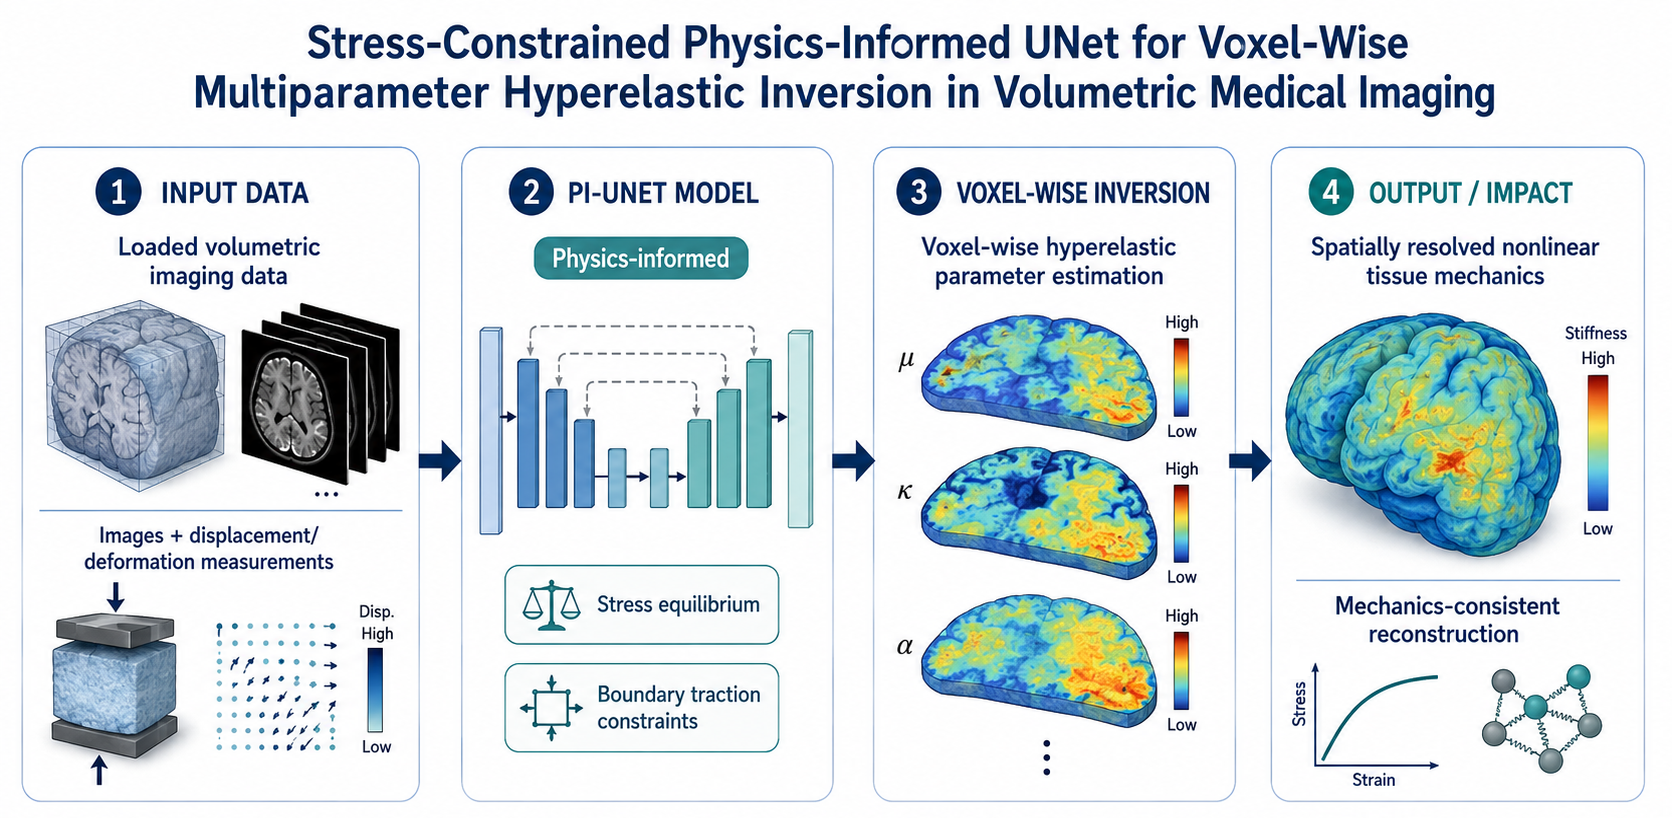
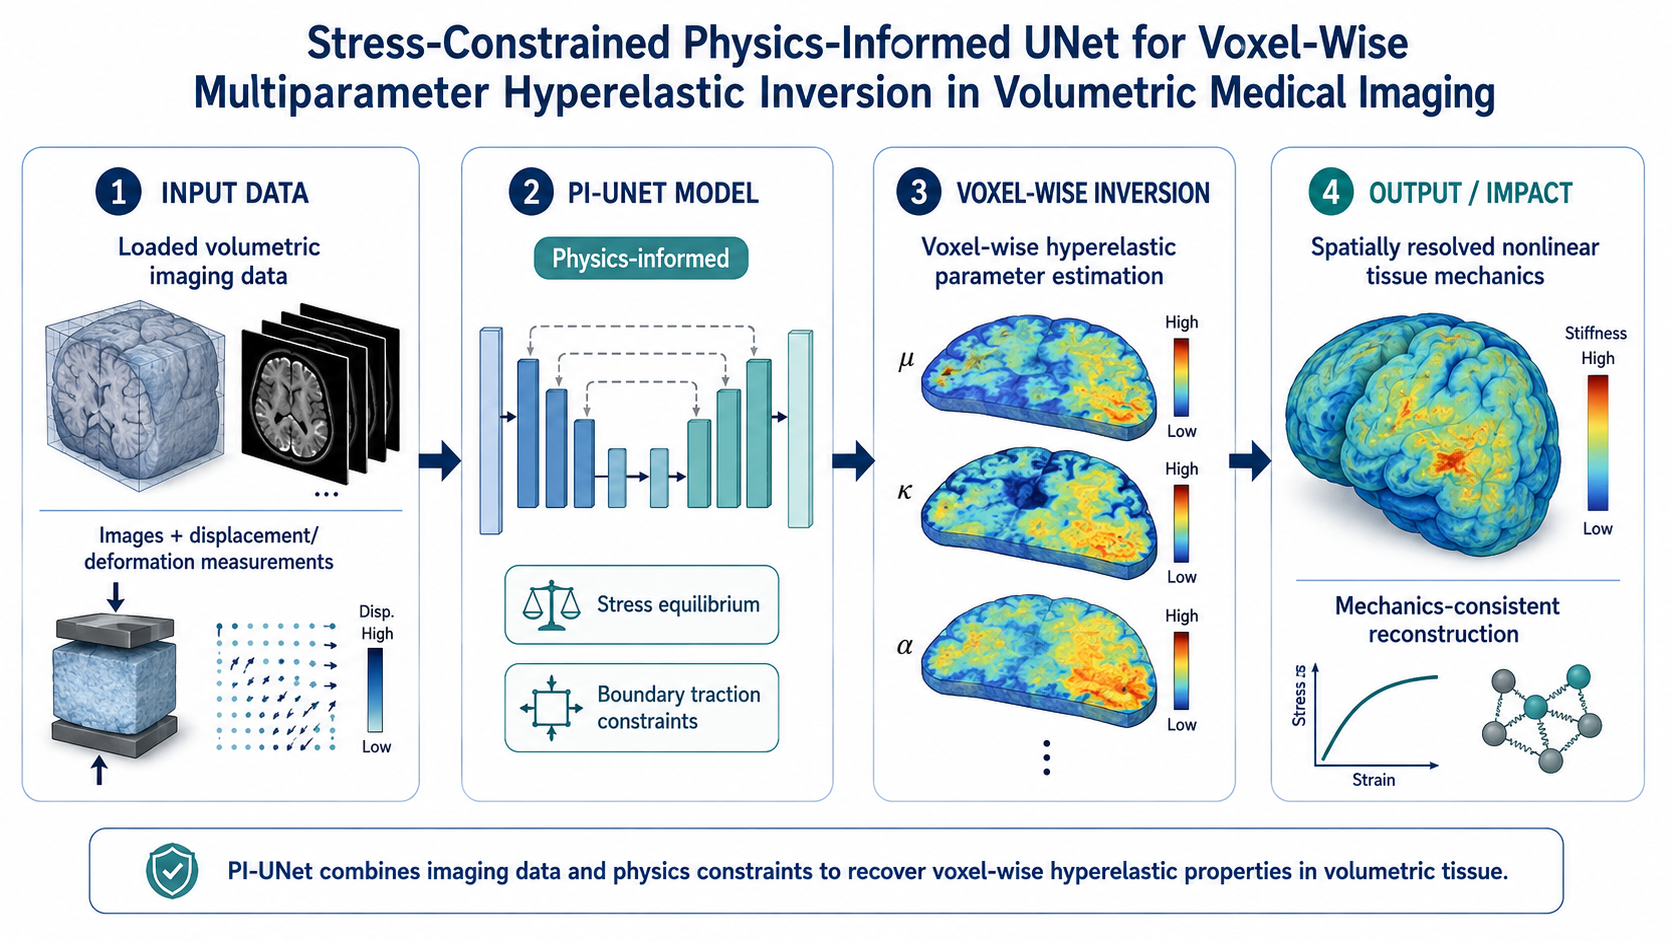
Add files via upload

diff --git a/index.html b/index.html
@@ -1,129 +1,24 @@
 ---
 layout: default
 title: Amirreza Asadi | Computational Biomechanics & Physics-Informed AI
-description: Amirreza Asadi is a PhD candidate at UC Riverside working on computational biomechanics, hyperelasticity, inverse problems, medical imaging, and physics-informed AI.
+seo_title: Amirreza (Amir) Asadi | Computational Biomechanics, Hyperelasticity & Physics-Informed AI
+description: Amirreza (Amir) Asadi is a UC Riverside PhD candidate researching computational biomechanics, hyperelastic material characterization, inverse elastography, medical imaging, and physics-informed AI.
+lang: en
+dir: ltr
+alternate_url: /fa/
 permalink: /
 ---
 <main id="top">
     <header class="hero">
       <canvas id="field"></canvas>
 
-      <div class="science-layer" aria-hidden="true">
-        <!-- Abstract MRI/brain-like wireframe: intentionally subtle and non-diagnostic. -->
-        <div class="science-motif brain-motif science-drift">
-          <svg viewBox="0 0 620 520" role="presentation">
-            <defs>
-              <clipPath id="brainClip">
-                <path d="M120,275 C82,209 108,132 177,100 C204,45 278,24 337,58 C391,34 465,68 476,124 C539,153 554,230 520,278 C536,346 478,405 416,408 C376,468 286,474 237,430 C170,442 112,396 111,333 C81,317 80,292 120,275 Z"/>
-              </clipPath>
-            </defs>
-
-            <path class="science-stroke" d="M120,275 C82,209 108,132 177,100 C204,45 278,24 337,58 C391,34 465,68 476,124 C539,153 554,230 520,278 C536,346 478,405 416,408 C376,468 286,474 237,430 C170,442 112,396 111,333 C81,317 80,292 120,275 Z"/>
-            <path class="science-stroke-thin" d="M304,66 C266,123 269,179 304,227 C333,265 329,336 296,430"/>
-            <path class="science-stroke-thin" d="M168,124 C212,143 238,175 246,222 C254,274 231,323 184,360"/>
-            <path class="science-stroke-thin" d="M420,111 C383,143 359,181 353,226 C345,282 369,334 424,374"/>
-
-            <g clip-path="url(#brainClip)" opacity="0.82">
-              <path class="science-stroke-thin" d="M68,152 C168,109 286,109 555,154"/>
-              <path class="science-stroke-thin" d="M63,194 C182,160 321,159 566,200"/>
-              <path class="science-stroke-thin" d="M58,237 C202,210 353,215 572,248"/>
-              <path class="science-stroke-thin" d="M58,281 C207,266 371,270 573,292"/>
-              <path class="science-stroke-thin" d="M62,325 C207,326 372,329 562,333"/>
-              <path class="science-stroke-thin" d="M83,369 C207,386 380,382 538,367"/>
-              <path class="science-stroke-thin" d="M128,413 C240,438 382,425 492,398"/>
-
-              <path class="science-stroke-thin" d="M143,55 C126,153 141,284 196,463"/>
-              <path class="science-stroke-thin" d="M201,36 C190,150 201,315 243,478"/>
-              <path class="science-stroke-thin" d="M257,28 C250,146 259,337 278,484"/>
-              <path class="science-stroke-thin" d="M318,24 C312,154 316,339 319,486"/>
-              <path class="science-stroke-thin" d="M377,34 C378,153 370,326 357,476"/>
-              <path class="science-stroke-thin" d="M435,54 C442,161 426,304 402,458"/>
-              <path class="science-stroke-thin" d="M491,89 C491,186 466,310 444,430"/>
-            </g>
-
-            <circle class="science-node science-pulse" cx="247" cy="221" r="5"/>
-            <circle class="science-node science-pulse" cx="352" cy="226" r="4"/>
-            <circle class="science-node science-pulse" cx="305" cy="304" r="5"/>
-            <text class="science-label" x="395" y="468">volumetric geometry</text>
-          </svg>
-        </div>
-
-        <!-- Stress-material Jacobian / information-content motif. -->
-        <div class="science-motif jacobian-motif">
-          <svg viewBox="0 0 300 250" role="presentation">
-            <text class="science-label" x="23" y="24">stress–material Jacobian</text>
-            <path class="science-stroke" d="M28,42 H250 V204 H28 Z"/>
-            <g opacity="0.78">
-              <rect x="48" y="61" width="25" height="25" rx="3" fill="currentColor" opacity="0.19"/>
-              <rect x="78" y="61" width="25" height="25" rx="3" fill="currentColor" opacity="0.36"/>
-              <rect x="108" y="61" width="25" height="25" rx="3" fill="currentColor" opacity="0.68"/>
-              <rect x="138" y="61" width="25" height="25" rx="3" fill="currentColor" opacity="0.30"/>
-              <rect x="168" y="61" width="25" height="25" rx="3" fill="currentColor" opacity="0.52"/>
-
-              <rect x="48" y="91" width="25" height="25" rx="3" fill="currentColor" opacity="0.62"/>
-              <rect x="78" y="91" width="25" height="25" rx="3" fill="currentColor" opacity="0.22"/>
-              <rect x="108" y="91" width="25" height="25" rx="3" fill="currentColor" opacity="0.43"/>
-              <rect x="138" y="91" width="25" height="25" rx="3" fill="currentColor" opacity="0.78"/>
-              <rect x="168" y="91" width="25" height="25" rx="3" fill="currentColor" opacity="0.32"/>
-
-              <rect x="48" y="121" width="25" height="25" rx="3" fill="currentColor" opacity="0.27"/>
-              <rect x="78" y="121" width="25" height="25" rx="3" fill="currentColor" opacity="0.72"/>
-              <rect x="108" y="121" width="25" height="25" rx="3" fill="currentColor" opacity="0.24"/>
-              <rect x="138" y="121" width="25" height="25" rx="3" fill="currentColor" opacity="0.49"/>
-              <rect x="168" y="121" width="25" height="25" rx="3" fill="currentColor" opacity="0.67"/>
-
-              <rect x="48" y="151" width="25" height="25" rx="3" fill="currentColor" opacity="0.46"/>
-              <rect x="78" y="151" width="25" height="25" rx="3" fill="currentColor" opacity="0.30"/>
-              <rect x="108" y="151" width="25" height="25" rx="3" fill="currentColor" opacity="0.76"/>
-              <rect x="138" y="151" width="25" height="25" rx="3" fill="currentColor" opacity="0.20"/>
-              <rect x="168" y="151" width="25" height="25" rx="3" fill="currentColor" opacity="0.57"/>
-            </g>
-            <path class="science-stroke" d="M214,78 C256,93 263,140 222,158"/>
-            <path class="science-stroke" d="M225,147 L218,159 L232,161"/>
-            <text class="science-label" x="196" y="190">information</text>
-          </svg>
-        </div>
-
-        <!-- Deformation-to-property mapping motif. -->
-        <div class="science-motif mapping-motif">
-          <svg viewBox="0 0 590 250" role="presentation">
-            <text class="science-label" x="20" y="24">deformation → constitutive map</text>
-
-            <g transform="translate(34,56)">
-              <path class="science-stroke" d="M0,0 H112 V112 H0 Z"/>
-              <path class="science-stroke-thin" d="M0,28 C28,22 82,33 112,20"/>
-              <path class="science-stroke-thin" d="M0,55 C31,42 78,65 112,47"/>
-              <path class="science-stroke-thin" d="M0,82 C36,67 79,90 112,72"/>
-              <path class="science-stroke-thin" d="M28,0 C23,29 39,82 24,112"/>
-              <path class="science-stroke-thin" d="M56,0 C48,34 70,78 54,112"/>
-              <path class="science-stroke-thin" d="M84,0 C74,31 99,77 82,112"/>
-            </g>
-
-            <path class="science-stroke" d="M174,112 H274"/>
-            <path class="science-stroke" d="M263,102 L276,112 L263,122"/>
-            <circle class="science-node science-pulse" cx="220" cy="112" r="5"/>
-
-            <g transform="translate(306,51)">
-              <path class="science-stroke" d="M0,0 H118 V118 H0 Z"/>
-              <path class="science-stroke-thin" d="M0,29 H118 M0,59 H118 M0,88 H118"/>
-              <path class="science-stroke-thin" d="M29,0 V118 M59,0 V118 M88,0 V118"/>
-              <circle class="science-node" cx="44" cy="41" r="15" opacity="0.32"/>
-              <circle class="science-node" cx="80" cy="76" r="22" opacity="0.52"/>
-              <circle class="science-node" cx="42" cy="91" r="10" opacity="0.72"/>
-            </g>
-
-            <path class="science-stroke" d="M452,112 H530"/>
-            <path class="science-stroke" d="M519,102 L532,112 L519,122"/>
-            <text class="science-label" x="457" y="143">C₁₀, C₀₁</text>
-          </svg>
-        </div>
-      </div>
+      {% include science-background.html %}
 
       <div class="container hero-content">
         <div class="hero-copy">
           <div class="eyebrow">
             <span class="dot"></span>
-            Amirreza Asadi · PhD Candidate · University of California, Riverside
+            Amirreza (Amir) Asadi · PhD Candidate · University of California, Riverside
           </div>
 
           <h1>
@@ -213,7 +108,7 @@ permalink: /
               Quantifying the information content of loading conditions and selecting
               deformations that improve multiparameter hyperelastic identifiability.
             </p>
-            <a class="card-link" href="/publications/optimal-experimental-design/">Paper page →</a>
+            <a class="card-link" href="/research/hyperelastic-material-characterization/">Explore hyperelastic material characterization →</a>
           </article>
 
           <article class="card research-card">
@@ -249,7 +144,7 @@ permalink: /
               Recovering voxel-wise nonlinear material parameters from volumetric
               deformation fields while enforcing equilibrium and boundary reactions.
             </p>
-            <a class="card-link" href="/publications/pi-unet/">Paper page →</a>
+            <a class="card-link" href="/research/physics-informed-inverse-elastography/">Explore physics-informed inverse elastography →</a>
           </article>
 
           <article class="card research-card">
@@ -284,7 +179,7 @@ permalink: /
               Building noise-aware maps of where different constitutive models are
               distinguishable, compatible, or observationally equivalent.
             </p>
-            <a class="card-link" href="#contact">Research in progress →</a>
+            <a class="card-link" href="/research/computational-biomechanics/">Explore computational biomechanics →</a>
           </article>
         </div>
       </div>
@@ -406,7 +301,7 @@ permalink: /
         <div class="section-heading">
           <h2>About</h2>
           <p>
-            I am a PhD candidate in Mechanical Engineering at UC Riverside,
+            I am Amirreza “Amir” Asadi (امیررضا اسدی), a PhD candidate in Mechanical Engineering at UC Riverside,
             working at the intersection of computational mechanics, medical imaging,
             inverse problems, and machine learning.
           </p>

diff --git a/TEMPLATE-GUIDE.md b/TEMPLATE-GUIDE.md
@@ -1,71 +1,28 @@
-# Website template system
+# Website template guide
 
-This repository now uses **Jekyll**, the static-site generator built into GitHub Pages.
-You edit shared templates and data once; GitHub generates every page automatically.
+## Shared structure
 
-## Global changes
+- `_layouts/default.html`: common HTML shell, language and direction attributes.
+- `_includes/header.html`: shared navigation and English/Persian switch.
+- `_includes/footer.html`: shared footer.
+- `_includes/seo.html`: canonical, Open Graph, citation metadata, and hreflang.
+- `_includes/structured-data.html`: WebSite, ProfilePage, Person, Article, and ScholarlyArticle JSON-LD.
+- `_includes/science-background.html`: reusable mechanics-inspired hero graphics.
+- `_layouts/publication.html`: reusable English and Persian publication-page template.
+- `_layouts/research-topic.html`: reusable long-form research-topic template.
 
-- Navigation: `_data/navigation.yml`
-- Header/logo: `_includes/header.html`
-- Footer: `_includes/footer.html`
-- SEO tags: `_includes/seo.html`
-- Shared page shell: `_layouts/default.html`
-- Publication page design: `_layouts/publication.html`
-- Homepage styling: `assets/css/main.css`
-- Publication styling: `assets/css/publication.css`
+## Adding an English research page
 
-Changing any of these files updates every applicable page on the next GitHub Pages build.
+Create `research/<slug>/index.md` with `layout: research-topic`, `lang: en`, an English permalink, and `alternate_url` pointing to its Persian counterpart.
 
-## Add a publication
+## Adding a Persian research page
 
-1. Copy one file in `_publications/`.
-2. Rename it, for example `_publications/new-paper.md`.
-3. Edit only the YAML fields at the top.
-4. Add a matching visual include only when a new custom diagram is wanted.
+Create `fa/research/<slug>/index.md` with `layout: research-topic`, `lang: fa`, `dir: rtl`, and a reciprocal `alternate_url`. Use Persian visible content rather than hidden keyword lists.
 
-The homepage publication list and the paper page are generated automatically.
+## Adding a publication
 
-## Add or remove a navigation item
+Create one English file under `_publications/`. Add a Persian summary under `fa/publications/<slug>/index.md`. Give both pages reciprocal `alternate_url` values. Add `graphical_abstract`, descriptive alt text, DOI, authors, journal, abstract, contributions, methods, and BibTeX.
 
-Edit `_data/navigation.yml` once. Do not edit individual pages.
+## Global edits
 
-## GitHub deployment
-
-Upload this structure to the repository root. Keep these existing image files in the root:
-
-- `Logo.png`
-- `profile.png`
-- `award-poster-2026.jpg`
-
-In GitHub: Settings → Pages → Build and deployment → Source → **Deploy from a branch**.
-Select the `main` branch and `/ (root)` folder. GitHub Pages will run Jekyll automatically.
-
-## Local preview (optional)
-
-```bash
-bundle install
-bundle exec jekyll serve
-```
-
-Open `http://localhost:4000`.
-
-
-## CV and graphical abstracts
-
-The CV filename is configured once in `_config.yml`:
-
-```yaml
-cv_file: /Acadmic_CV.pdf
-```
-
-The shared navigation reads its CV link from `_data/navigation.yml`, and the homepage button reads `site.cv_file`.
-
-Each publication can display a graphical abstract by adding these fields to its `_publications/*.md` front matter:
-
-```yaml
-graphical_abstract: /my-paper-graphical-abstract.png
-graphical_abstract_alt: A concise description of the figure.
-og_image: /my-paper-graphical-abstract.png
-```
-
-The publication layout displays the image automatically, the homepage uses it as a thumbnail, and the SEO template uses it for social sharing.
+Navigation labels are in `_data/navigation_en.yml` and `_data/navigation_fa.yml`. Global design is in `assets/css/main.css`; publication-only styles are in `assets/css/publication.css`.

diff --git a/SEO-DEPLOYMENT-GUIDE.md b/SEO-DEPLOYMENT-GUIDE.md
@@ -1,0 +1,25 @@
+# Multilingual SEO deployment
+
+This version adds English and Persian search architecture without automatic language redirection.
+
+## Main additions
+
+- Stable `Person` identity linking Amirreza Asadi, Amir Asadi, A. Asadi, امیررضا اسدی, and امیر اسدی.
+- Root `WebSite` and `ProfilePage` structured data.
+- English and Persian URLs connected with reciprocal `hreflang` and `x-default` tags.
+- Persian homepage, research-topic pages, and publication-summary pages.
+- English evergreen research-topic pages for broader searches beyond exact paper titles.
+- Descriptive graphical-abstract filenames, alt text, Open Graph images, and image sitemap entries.
+- Publication authors linked to the same person entity.
+- Visible publication funding acknowledgments.
+
+## After uploading
+
+1. Wait for GitHub Pages to complete the deployment.
+2. Open `/sitemap.xml` and confirm that English and Persian URLs appear.
+3. In Google Search Console, resubmit `sitemap.xml`.
+4. Inspect and request indexing for `/`, `/fa/`, the six research-topic pages, and the four publication pages.
+5. Validate the home page and publication pages in Schema Markup Validator.
+6. Add `https://amirreza-asadi.com/` to Google Scholar, ORCID, LinkedIn, GitHub, and any available UCR profile.
+
+Google may take days to weeks to recrawl and reassess rankings. No code change can guarantee a first-place result.

diff --git a/README.md b/README.md
@@ -1,4 +1,5 @@
-# amirreza-asadi.com
+# Amirreza Asadi academic website
 
-Academic website for Amirreza Asadi, built with Jekyll and hosted on GitHub Pages.
-See `TEMPLATE-GUIDE.md` for editing instructions.
+Reusable Jekyll website with English and Persian pages, structured scholarly metadata, research-topic pages, publication pages, graphical abstracts, and multilingual SEO.
+
+See `TEMPLATE-GUIDE.md` and `SEO-DEPLOYMENT-GUIDE.md`.
